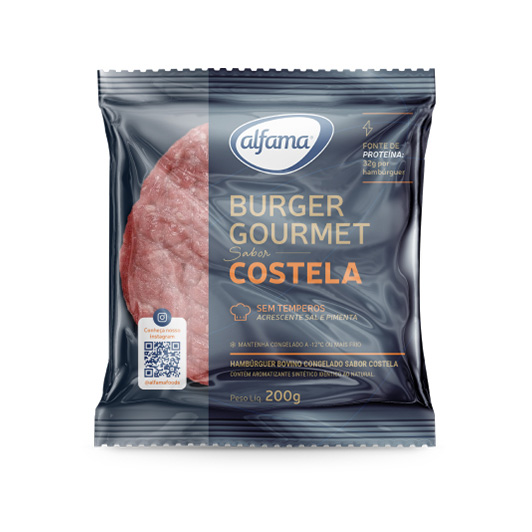
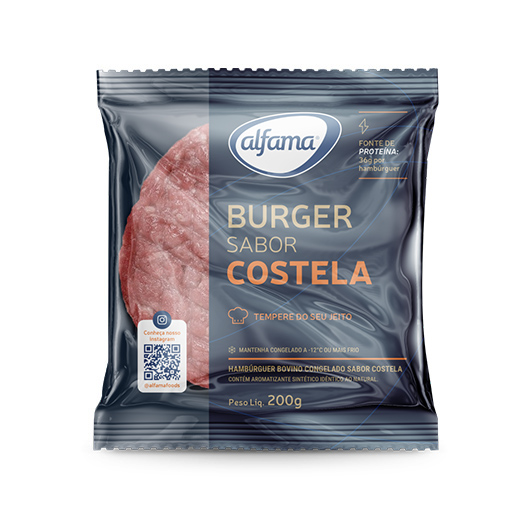
ajustes produtos e adicionado carne de sol

Changed region(s): [[0.1504, 0.1203, 0.8421, 0.8722], [0.6617, 0.1203, 0.6917, 0.1504], [0.2707, 0.5113, 0.3008, 0.5414]]

diff --git a/wp-content/themes/alfama/assets/less/pages/produtos.less b/wp-content/themes/alfama/assets/less/pages/produtos.less
@@ -191,6 +191,12 @@
                                 height: 20px;
                             }
                         }
+                        &.microondas{
+                            svg{
+                                width: 24px;
+                                height: 17px;
+                            }
+                        }
                     }
                 }
             }
@@ -418,6 +424,12 @@
                             svg{
                                 width: 26px;
                                 height: 20px;
+                            }
+                        }
+                        &.microondas{
+                            svg{
+                                width: 24px;
+                                height: 17px;
                             }
                         }
                     }

diff --git a/wp-content/themes/alfama/assets/css/main-style.css b/wp-content/themes/alfama/assets/css/main-style.css
@@ -6316,6 +6316,10 @@ body.compensate-for-scrollbar {
   width: 26px;
   height: 20px;
 }
+.page-template-template-produtos .lista-produtos .produto .locais > div .icone.microondas svg {
+  width: 24px;
+  height: 17px;
+}
 .page-template-template-produtos .lista-produtos .produto .paragrafo {
   font-size: 1.4rem;
 }
@@ -6512,6 +6516,10 @@ body.compensate-for-scrollbar {
 .page-template-template-produtos .modal-produto .produto .locais > div .icone.broiler svg {
   width: 26px;
   height: 20px;
+}
+.page-template-template-produtos .modal-produto .produto .locais > div .icone.microondas svg {
+  width: 24px;
+  height: 17px;
 }
 .page-template-template-produtos .modal-produto .produto .nome {
   font-weight: 600;

diff --git a/wp-content/themes/alfama/produtos.php b/wp-content/themes/alfama/produtos.php
@@ -310,6 +310,36 @@ $produtos = [
         "receitas"=> "Pizza, Escondidinho, Shawarma, Pulled pork, Pastel, Hambúrguer, Sanduíche e Esfiha."
 
     ],
+
+
+    [
+        "destaque"=> false,
+        "categoria"=> "desfiados",
+        "fotos"=> [
+            "foto-produto-carne-de-sol.jpg",
+            "foto-produto-carne-de-sol.jpg"
+        ],
+        "nome"=> "Carne Desfiada Bovina Carne de Sol",
+        "locais"=> [
+            "panela",
+            "forno",
+            "chapa",
+            "microondas"
+        ],
+        "origem"=> "bovino",
+        "peso"=> [
+            "1kg"
+        ],
+        "caracteristicas" => [
+            "desfiamento",
+            "fibras-rusticas",
+            "nervos"
+        ],
+        "descricao_curta"=> "&bull; 1kg<br />&bull; Cozido e desfiado<br />&bull; Alta rentabilidade",
+        "receitas"=> "Pizza, Escondidinho, Salgados, Empadas, Pastel, Pratos regionais, Hambúrguer, Tapioca, Tábuas de porção."
+
+    ],
+
     [
         "destaque"=> true,
         "categoria"=> "moidas",
@@ -317,7 +347,7 @@ $produtos = [
             "foto-produto-carne-moida-acem.jpg",
             "foto-produto-carne-moida-acem.jpg"
         ],
-        "nome"=> "Carne Moída Acém",
+        "nome"=> "Carne Moída Bovina",
         "locais"=> [
             "panela",
             "forno",
@@ -366,6 +396,7 @@ $produtos = [
         "receitas"=> "Pastel, Empada, Carne moída refogada, Rocambole e Salgados."
 
     ],
+
     [
         "destaque"=> false,
         "categoria"=> "moidas",
@@ -373,7 +404,7 @@ $produtos = [
             "foto-produto-carne-moida-cortes.jpg",
             "foto-produto-carne-moida-cortes.jpg"
         ],
-        "nome"=> "Carne Moída Cortes",
+        "nome"=> "Carne Moída Bovina Cortes",
         "locais"=> [
             "panela",
             "forno",
@@ -400,7 +431,7 @@ $produtos = [
             "foto-produto-burguer-costela.jpg",
             "foto-produto-burguer-costela.jpg"
         ],
-        "nome"=> "Hambúrguer Gourmet Costela",
+        "nome"=> "Hambúrguer Costela",
         "locais"=> [
             "churrasqueira",
             "chapa",
@@ -458,7 +489,7 @@ $produtos = [
             "foto-produto-burguer-gourmet.jpg",
             "foto-produto-burguer-gourmet.jpg"
         ],
-        "nome"=> "Hambúrguer Gourmet",
+        "nome"=> "Hambúrguer Bovino",
         "locais"=> [
             "churrasqueira",
             "chapa",
@@ -480,32 +511,32 @@ $produtos = [
         "receitas"=> ""
 
     ],
-    [
-        "destaque"=> false,
-        "categoria"=> "hamburguer",
-        "fotos"=> [
-            "foto-produto-burguer-tradicional-2.jpg",
-            "foto-produto-burguer-tradicional-2.jpg"
-        ],
-        "nome"=> "Hambúrguer Tradicional",
-        "locais"=> [
-            "churrasqueira",
-            "chapa",
-            "broiler"
-        ],
-        "origem"=> "bovino",
-        "peso"=> [
-            "90g"
-        ],
-        "caracteristicas" => [
-            "bovino",
-            "saboroso",
-            "lanches"
-        ],
-        "descricao_curta"=> "&bull; 90g<br />&bull; 100% Carne Bovina<br />&bull; Aspecto artesanal",
-        "receitas"=> ""
+    // [
+    //     "destaque"=> false,
+    //     "categoria"=> "hamburguer",
+    //     "fotos"=> [
+    //         "foto-produto-burguer-tradicional-2.jpg",
+    //         "foto-produto-burguer-tradicional-2.jpg"
+    //     ],
+    //     "nome"=> "Hambúrguer Tradicional",
+    //     "locais"=> [
+    //         "churrasqueira",
+    //         "chapa",
+    //         "broiler"
+    //     ],
+    //     "origem"=> "bovino",
+    //     "peso"=> [
+    //         "90g"
+    //     ],
+    //     "caracteristicas" => [
+    //         "bovino",
+    //         "saboroso",
+    //         "lanches"
+    //     ],
+    //     "descricao_curta"=> "&bull; 90g<br />&bull; 100% Carne Bovina<br />&bull; Aspecto artesanal",
+    //     "receitas"=> ""
 
-    ],
+    // ],
     [
         "destaque"=> false,
         "categoria"=> "formados",

diff --git a/wp-content/themes/alfama/template-produtos.php b/wp-content/themes/alfama/template-produtos.php
@@ -153,7 +153,14 @@ include_once 'produtos.php';
                                     Char Broiler
                                 </div>';
                                 }
-
+                                if($local == 'microondas'){
+                                    echo '<div>
+                                    <div class="icone microondas">
+                                        <svg xmlns="http://www.w3.org/2000/svg" xml:space="preserve" id="Camada_1" x="0" y="0" version="1.1" viewBox="0 0 23.23 16.47"><path d="M20.88 0H2.35C1.06 0 0 1.05 0 2.35v11.77c0 1.3 1.06 2.35 2.35 2.35h18.53c1.3 0 2.35-1.05 2.35-2.35V2.35c0-1.3-1.05-2.35-2.35-2.35zm1.16 14.12c0 .64-.52 1.16-1.16 1.16h-2.55V1.19h2.55c.64 0 1.16.52 1.16 1.16v11.77zM1.19 2.35c0-.64.52-1.16 1.16-1.16h14.79v14.09H2.35c-.64 0-1.16-.52-1.16-1.16V2.35z" class="st0"/><path d="M20.19 4.79c-.37 0-.67.3-.67.67 0 .37.3.67.67.67.37 0 .67-.3.67-.67 0-.37-.3-.67-.67-.67zM20.19 7.57c-.37 0-.67.3-.67.67 0 .37.3.67.67.67.37 0 .67-.3.67-.67 0-.37-.3-.67-.67-.67zM20.19 10.34c-.37 0-.67.3-.67.67s.3.67.67.67c.37 0 .67-.3.67-.67s-.3-.67-.67-.67zM15.53 13.8c.33 0 .59-.27.59-.6V3.27c0-.33-.27-.59-.59-.59-.32 0-.59.27-.59.59v9.93c0 .33.27.6.59.6zM3.28 13.8h10.04c.33 0 .59-.27.59-.6V3.27c0-.33-.27-.59-.59-.59H3.28c-.33 0-.59.27-.59.59v9.93c0 .33.27.6.59.6zm.6-1.19V3.86h8.85v8.75H3.88z" class="st0"/></svg>
+                                    </div>
+                                    Microondas
+                                </div>';
+                                }
                             }
                         ?>
                     </div>
@@ -265,6 +272,14 @@ include_once 'produtos.php';
                                         <svg xmlns="http://www.w3.org/2000/svg" viewBox="0 0 25.77 19.98" xml:space="preserve"><path d="M25.15 5.12h-3.5V2.44C21.65 1.1 20.53 0 19.16 0H6.61C5.24 0 4.12 1.09 4.12 2.44v2.68H.62c-.34 0-.62.27-.62.6s.28.6.62.6h3.5v9.3c0 .88.73 1.6 1.64 1.6h.26v2.16c0 .33.28.6.62.6s.62-.27.62-.6v-2.16h11.28v2.16c0 .33.28.6.62.6.34 0 .62-.27.62-.6v-2.16h.26c.9 0 1.64-.72 1.64-1.6v-9.3h3.5c.34 0 .62-.27.62-.6s-.31-.6-.65-.6zm-4.73 10.5c0 .22-.18.4-.41.4H5.76c-.22 0-.41-.18-.41-.4v-3.79h3.74v.86c0 .73.61 1.33 1.36 1.33h4.88c.75 0 1.36-.59 1.36-1.33v-.86h3.74l-.01 3.79zm0-5h-4.35c-.34 0-.62.27-.62.6v1.46c0 .07-.06.13-.13.13h-4.88c-.07 0-.13-.06-.13-.13v-1.46c0-.33-.28-.6-.62-.6H5.35v-4.3h15.06l.01 4.3zm0-5.5H5.35V2.44c0-.68.56-1.23 1.26-1.23h12.55c.69 0 1.26.55 1.26 1.23v2.68z"/></svg>
                                     </div>
                                     Char Broiler
+                                </div>';
+                                }
+                                if($local == 'microondas'){
+                                    echo '<div>
+                                    <div class="icone microondas">
+                                        <svg xmlns="http://www.w3.org/2000/svg" xml:space="preserve" id="Camada_1" x="0" y="0" version="1.1" viewBox="0 0 23.23 16.47"><path d="M20.88 0H2.35C1.06 0 0 1.05 0 2.35v11.77c0 1.3 1.06 2.35 2.35 2.35h18.53c1.3 0 2.35-1.05 2.35-2.35V2.35c0-1.3-1.05-2.35-2.35-2.35zm1.16 14.12c0 .64-.52 1.16-1.16 1.16h-2.55V1.19h2.55c.64 0 1.16.52 1.16 1.16v11.77zM1.19 2.35c0-.64.52-1.16 1.16-1.16h14.79v14.09H2.35c-.64 0-1.16-.52-1.16-1.16V2.35z" class="st0"/><path d="M20.19 4.79c-.37 0-.67.3-.67.67 0 .37.3.67.67.67.37 0 .67-.3.67-.67 0-.37-.3-.67-.67-.67zM20.19 7.57c-.37 0-.67.3-.67.67 0 .37.3.67.67.67.37 0 .67-.3.67-.67 0-.37-.3-.67-.67-.67zM20.19 10.34c-.37 0-.67.3-.67.67s.3.67.67.67c.37 0 .67-.3.67-.67s-.3-.67-.67-.67zM15.53 13.8c.33 0 .59-.27.59-.6V3.27c0-.33-.27-.59-.59-.59-.32 0-.59.27-.59.59v9.93c0 .33.27.6.59.6zM3.28 13.8h10.04c.33 0 .59-.27.59-.6V3.27c0-.33-.27-.59-.59-.59H3.28c-.33 0-.59.27-.59.59v9.93c0 .33.27.6.59.6zm.6-1.19V3.86h8.85v8.75H3.88z" class="st0"/></svg>
+                                    </div>
+                                    Microondas
                                 </div>';
                                 }
                             }
